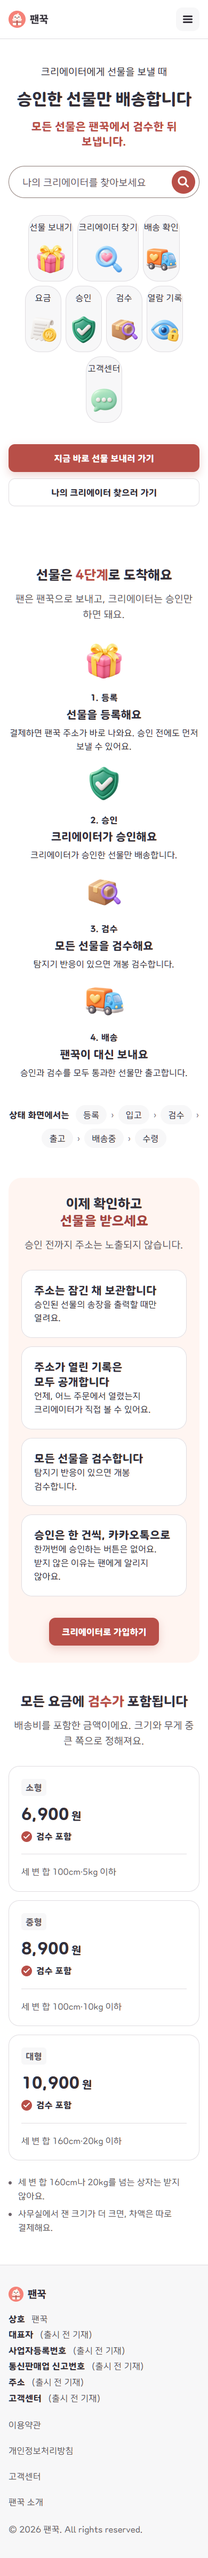
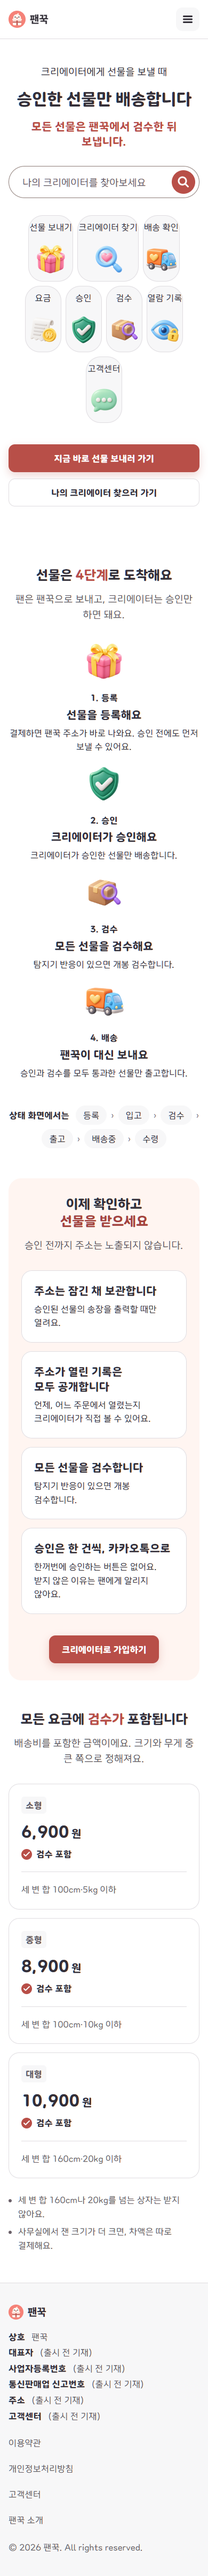
docs(fankkuk): v11 시안 세부 정렬 — 카드 제목·설명 간격, 표 아래 설명 시작선, 개봉 검수 판 가운데, 알림 받기 판, 휴대폰 표 마지막 칸 줄바꿈
Claude-Session: https://claude.ai/code/session_012ZzUPkDyX6EmouyR5g4nGM

diff --git a/projects/fankkuk/docs/design/mockups/site/v11/v11.css b/projects/fankkuk/docs/design/mockups/site/v11/v11.css
@@ -553,3 +553,18 @@ a.card:hover,.ccard:focus-within{box-shadow:inset 0 0 0 2px var(--field-line)}
 @media(prefers-reduced-motion:reduce){
   *,*::before,*::after{transition:none!important;animation:none!important}
 }
+
+/* ---------- 12. 세부 정렬 보정 (2차) ----------
+   카드·판 안: 제목 아래 본문 8px, 표 바깥 설명은 표 칸 글 시작선(24px)에 맞춘다. */
+:is(.card,.part,.gcard,.ccard,.info,.flow li,.step-col) :is(h3,.t-card) + :is(p,.t-meta,.t-desc){margin-top:8px}
+.card > .tag + :is(h3,.t-card){margin-top:12px}
+.table-wrap + :is(p,.t-meta){margin-top:12px;padding-inline:24px}
+@media(max-width:767px){.table-wrap + :is(p,.t-meta){padding-inline:12px}}
+.card--soft.center{text-align:center}
+.page-send .stack > .part > :is(h2,.t-lead){text-align:center}
+.page-send .stack > .part > .t-lead{max-width:560px;margin-inline:auto}
+fieldset.part{border:0;min-width:0}
+fieldset.part > legend{float:left;width:100%;margin:0 0 12px;padding:0}
+fieldset.part > legend + *{clear:both}
+.page-support .acc{max-width:720px}
+@media(max-width:767px){.table td:last-child{white-space:normal}}

diff --git a/projects/fankkuk/docs/design/mockups/site/v11/me.html b/projects/fankkuk/docs/design/mockups/site/v11/me.html
@@ -102,7 +102,7 @@
             <fieldset class="part" style="margin:0;min-width:0" aria-describedby="noti-hint noti-must">
               <legend class="t-card" style="padding:0;font-size:var(--fs-card);line-height:1.4">알림 받기</legend>
               <div style="margin-top:12px">
-                <label class="check"><input type="checkbox" name="notifyKakao" checked> 카카오 알림톡으로 받기</label><br>
+                <label class="check"><input type="checkbox" name="notifyKakao" checked> 카카오 알림톡으로 받기</label>
                 <label class="check"><input type="checkbox" name="notifyEmail" checked> 이메일로 받기</label>
               </div>
               <p class="hint" id="noti-hint">보낸 선물이 사무실에 도착하고, 검수를 마치고, 크리에이터에게 출발할 때 알려 드려요.</p>

diff --git a/projects/fankkuk/docs/design/mockups/site/v11/about.html b/projects/fankkuk/docs/design/mockups/site/v11/about.html
@@ -100,7 +100,7 @@
           <li class="card"><span class="tag tag--brand">2</span><h3 style="margin-top:12px">겉면 검사</h3><p>숨겨진 연락처나 이상한 부착물이 없는지 봐요.</p></li>
           <li class="card"><span class="tag tag--brand">3</span><h3 style="margin-top:12px">추적 장치 탐지</h3><p>모든 상자를 탐지기로 검사해요.</p></li>
         </ol>
-        <div class="card card--soft" style="margin-top:24px"><h3>반응이 있으면 개봉 검수</h3><p>탐지기 반응이 있으면 개봉 검수합니다.</p></div>
+        <div class="card card--soft center" style="margin-top:24px"><h3>반응이 있으면 개봉 검수</h3><p>탐지기 반응이 있으면 개봉 검수합니다.</p></div>
       </div>
     </section>
 
